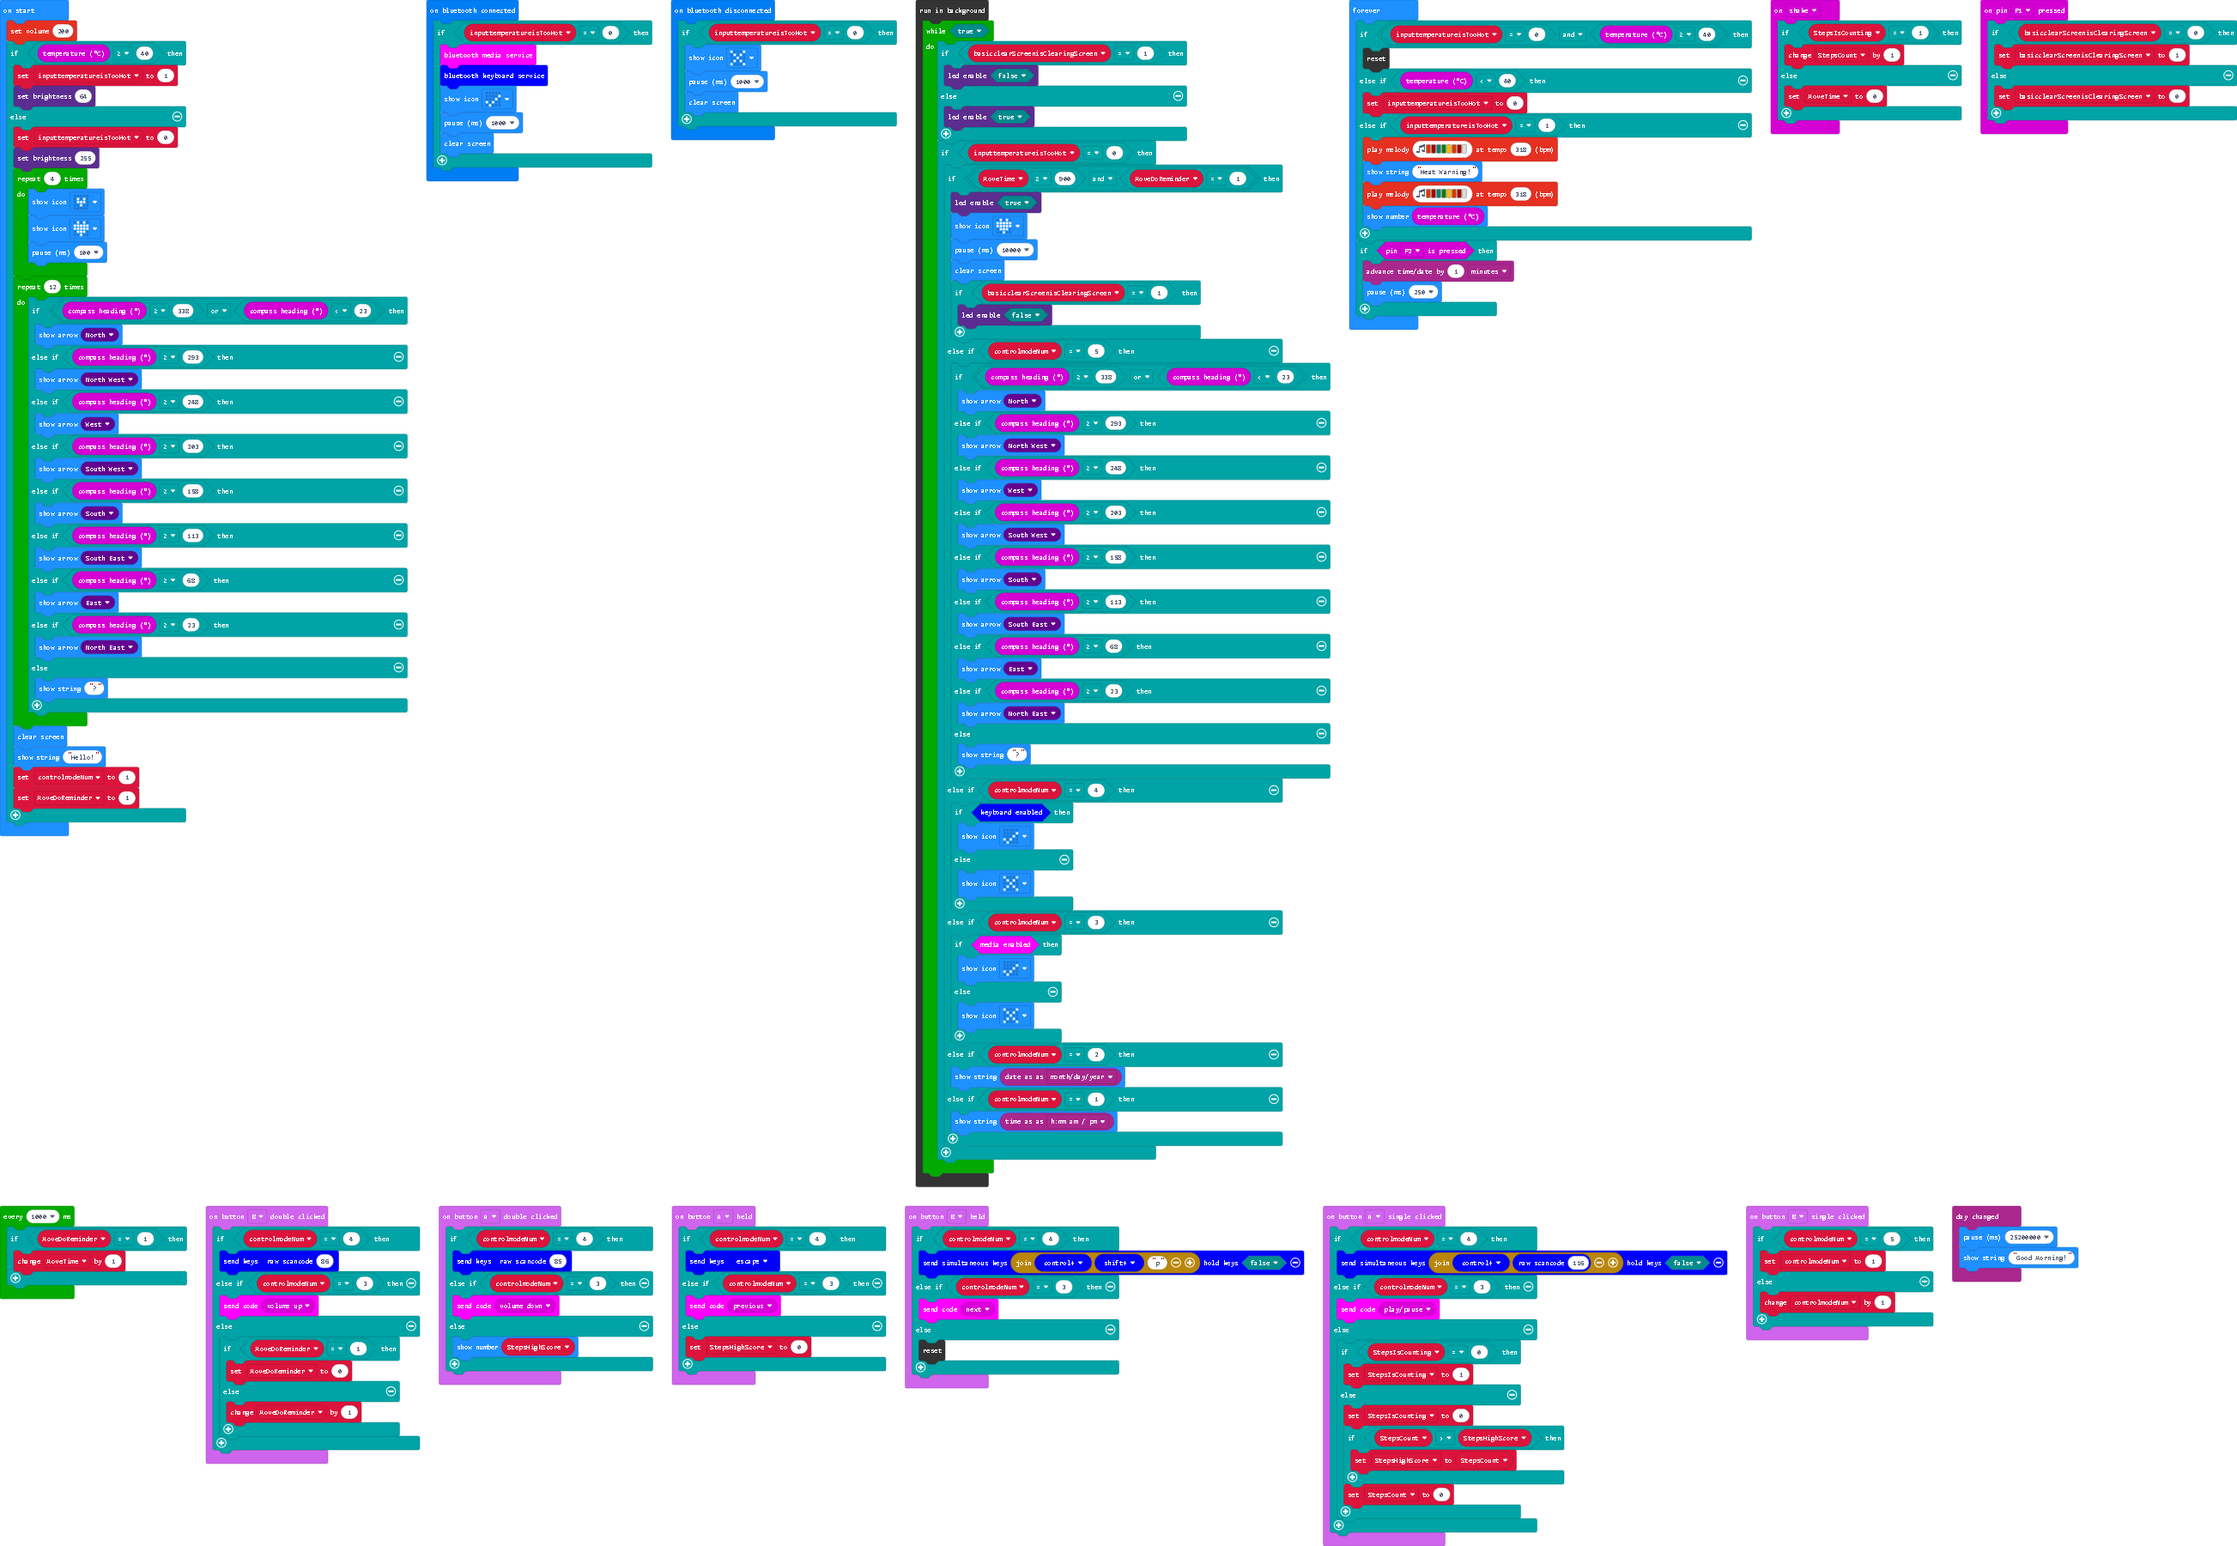
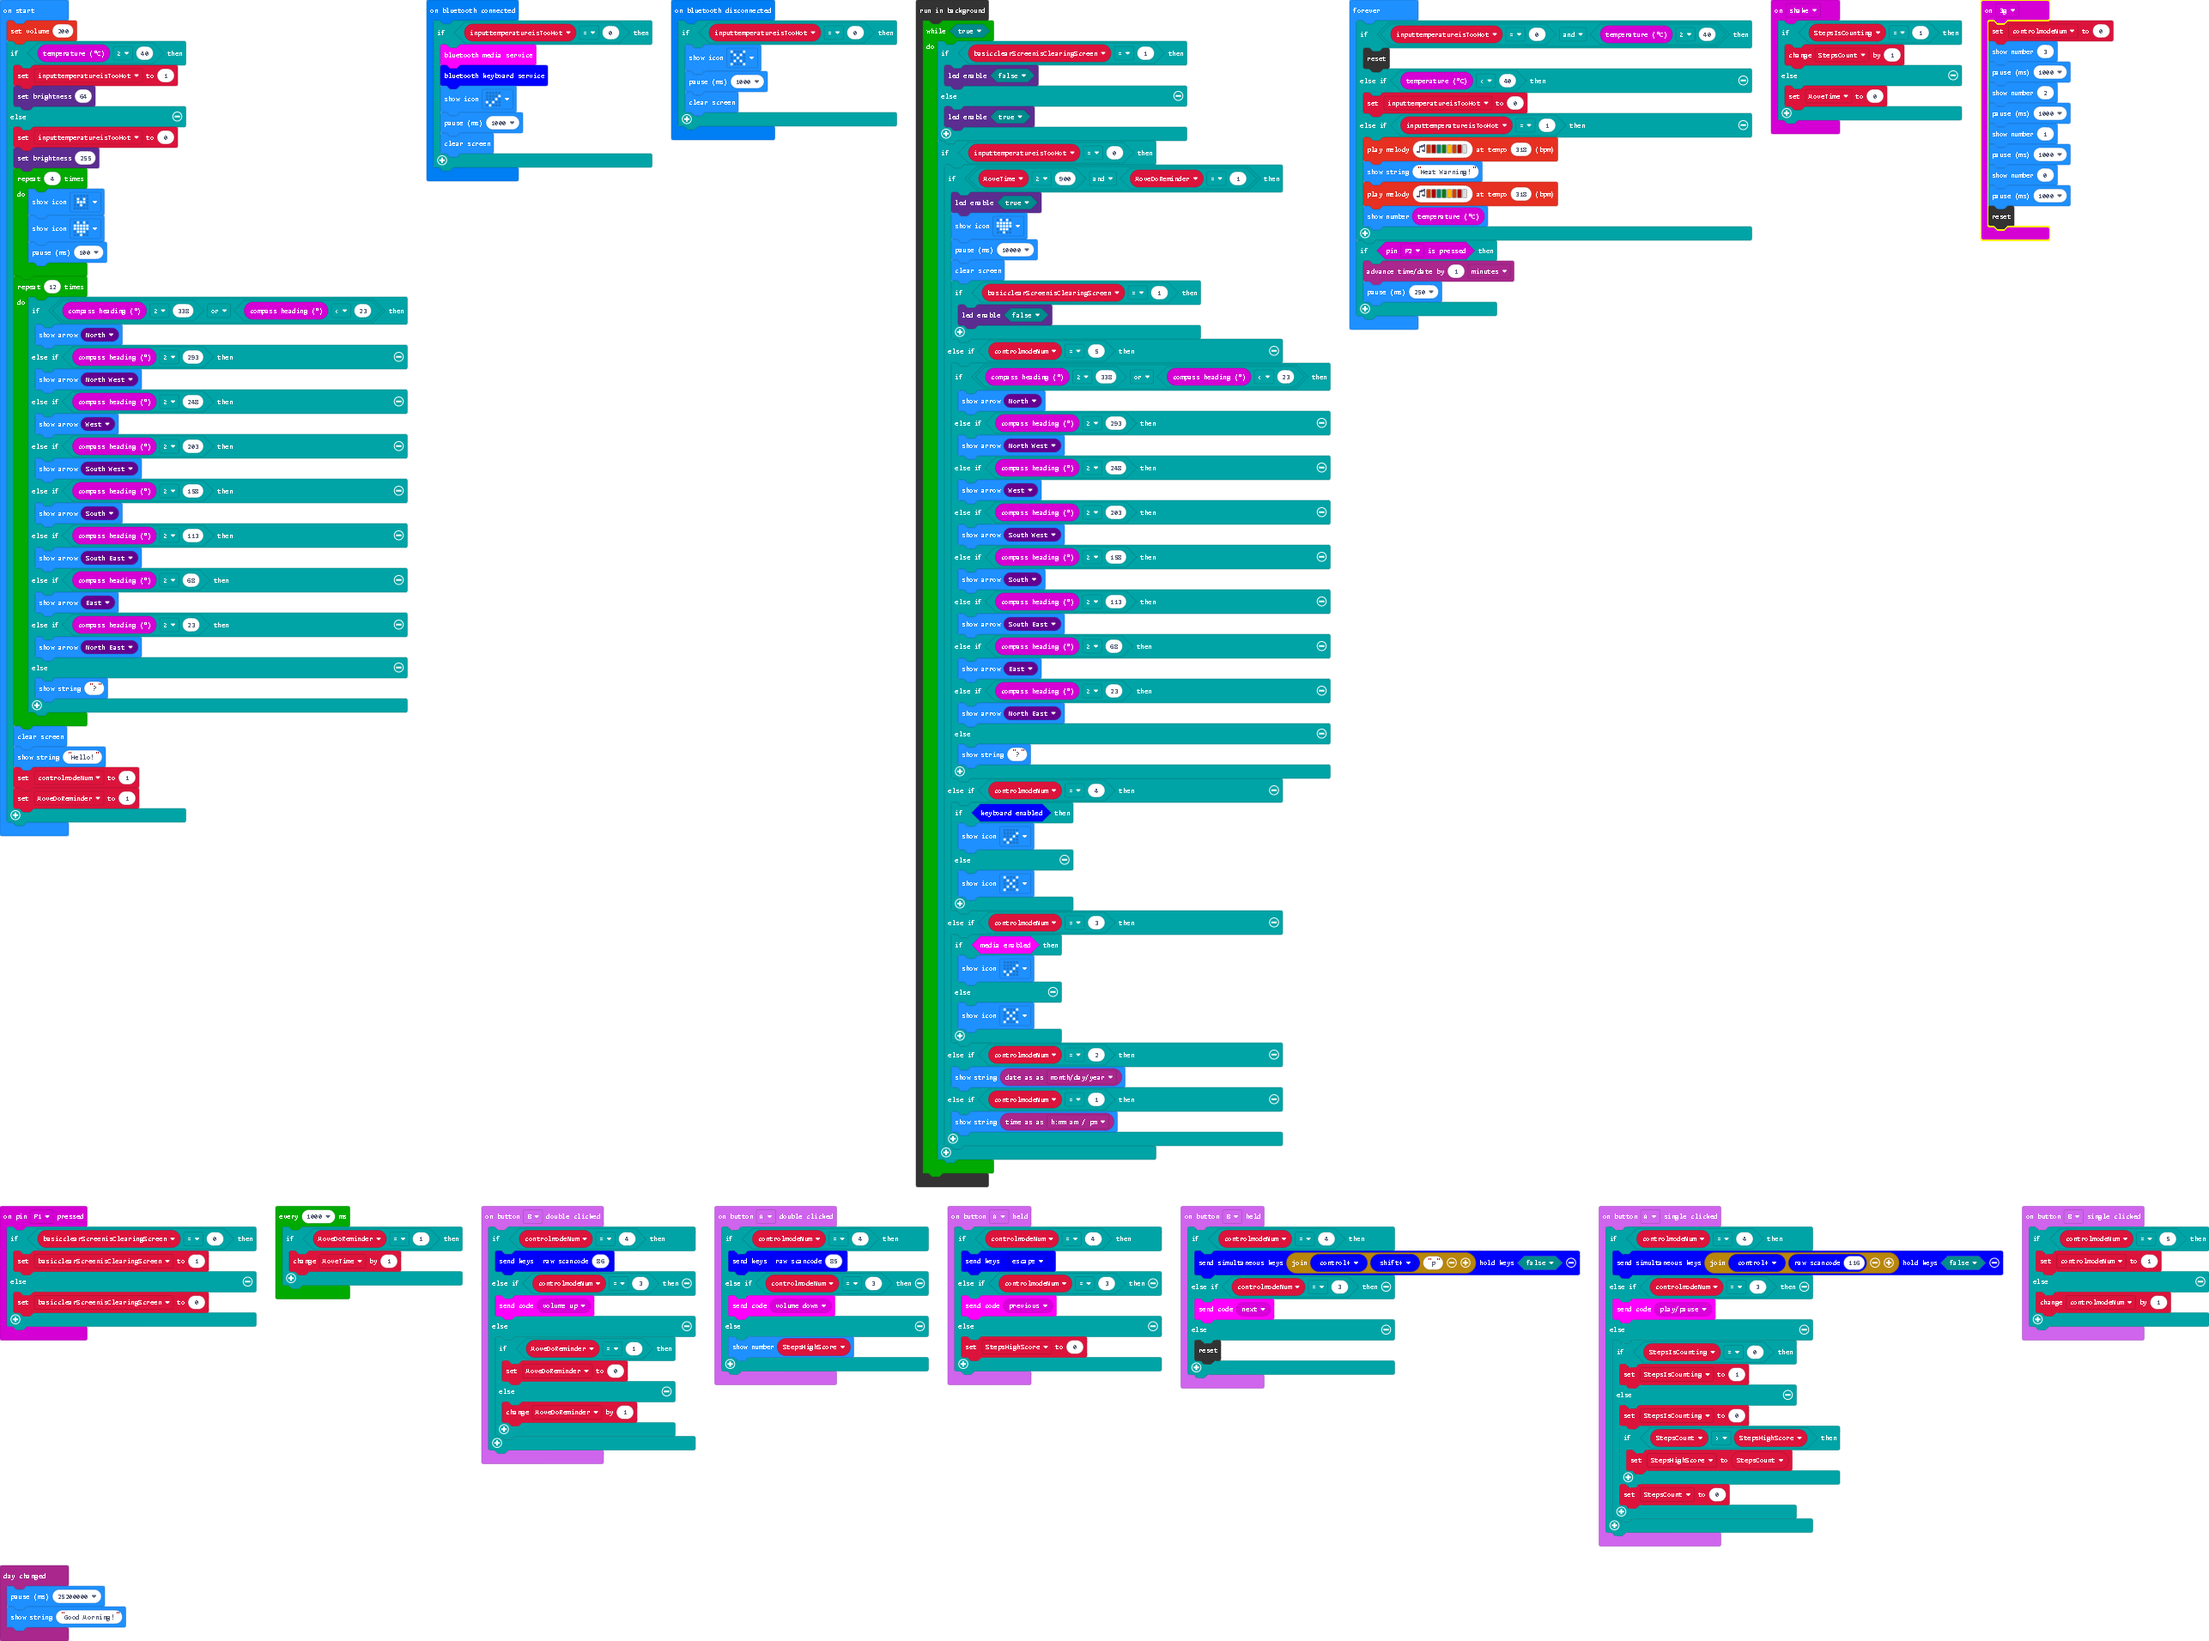
Added drop detector (Resets Micro:Bit)

Changed region(s): [[0.0, 0.0, 1.0, 1.0], [0.0, 0.0, 0.1866, 0.5597], [0.0, 0.9328, 0.0622, 1.0]]

diff --git a/main.ts b/main.ts
@@ -87,6 +87,18 @@ timeanddate.onDayChanged(function () {
     basic.pause(25200000)
     basic.showString("Good Morning!")
 })
+input.onGesture(Gesture.ThreeG, function () {
+    controlmodeNum = 0
+    basic.showNumber(3)
+    basic.pause(1000)
+    basic.showNumber(2)
+    basic.pause(1000)
+    basic.showNumber(1)
+    basic.pause(1000)
+    basic.showNumber(0)
+    basic.pause(1000)
+    control.reset()
+})
 buttonClicks.onButtonHeld(buttonClicks.AorB.A, function () {
     if (controlmodeNum == 4) {
         keyboard.sendString(keyboard.keys(keyboard._Key.escape))
